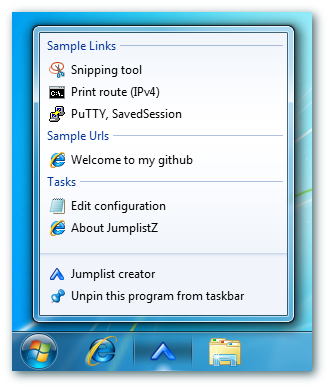
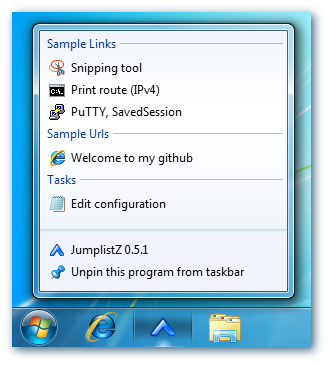
Remove 'about' link

Changed region(s): [[0.0304, 0.0603, 0.9422, 0.9644], [0.0912, 0.211, 0.1216, 0.2712]]

diff --git a/JumplistZ.cpp b/JumplistZ.cpp
@@ -291,10 +291,10 @@ void AddTasks(ICustomDestinationList * pcdl, TCHAR * szINI)
 		psl = GetShellLink(_T("Edit configuration"), bufCMD);
 		if (psl)
 			poc->AddObject(psl);
-		psl = GetShellLink(
-			_T("About JumplistZ"), _T("https://github.com/zackz/JumplistZ"));
-		if (psl)
-			poc->AddObject(psl);
+		//~ psl = GetShellLink(
+			//~ _T("About JumplistZ"), _T("https://github.com/zackz/JumplistZ"));
+		//~ if (psl)
+			//~ poc->AddObject(psl);
 		pcdl->AddUserTasks(poc);
 	}
 }
